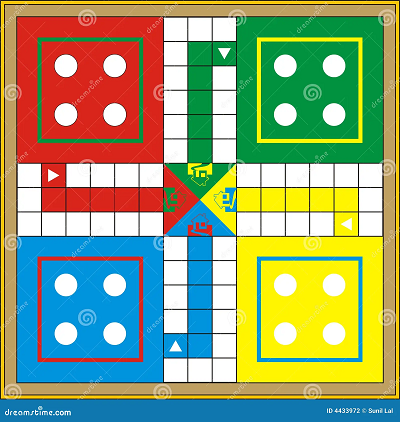
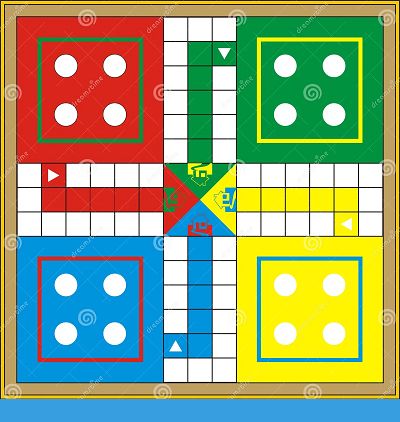
Interface Done

Changed region(s): [[0.0, 0.9242, 1.0, 1.0]]

diff --git a/main.py b/main.py
@@ -1,118 +1,112 @@
 """Ludo Game made with python
-
 """
+
+import sys
+import time
 import pygame
-import sys, time
 from diceRolling import roll_dice
 import const
 
-pygame.init()
+from app import Button
+
 pygame.font.init()
 
 W = const.WIDTH
 H = const.HEIGHT
- 
+
+P_W = const.PIECES_WIDTH
+P_H = const.PIECES_HEIGHT
+
 game_active = True
 
 screen = pygame.display.set_mode((W, H))
 pygame.display.set_caption("Ludo")
-startBg = pygame.transform.scale(pygame.image.load("img/start.jpg"), (W, H))
+startBg = pygame.transform.scale(pygame.image.load("./img/start.jpg"), (W, H))
 screen.blit(startBg, (0, 0))
 
 BG = pygame.transform.scale(pygame.image.load("./img/bg.png"), (W, H))
 
-text_font = pygame.font.SysFont(None, 30)
+text_font = pygame.font.SysFont("comicsans", 30)
 dice_font = pygame.font.SysFont(None, 50)
 
 class Game:
-    """
-    Game class
+    """Game class
     """
     def __init__(self, players):
         """Game initialisation
-        @param players: number of players
         """
-        self.player1 = players[0]
-        self.player2 = players[1]
+        self.p1 = players[0]
+        self.p2 = players[1]
         if len(players) == 4:
-            self.player3 = players[2]
-            self.player4 = players[3]
+            self.p3 = players[2]
+            self.p4 = players[3]
 
     def drawPlayersName(self):
         """Drawing Player's name
-
         """
-        player1_surf = text_font.render(f"{self.player1}", 1, "white")
+        player1_surf = text_font.render(f"{self.p1}", 1, "white")
         player1_rect = player1_surf.get_rect(center=(100, 10))
         screen.blit(player1_surf, player1_rect)
 
-        player2_surf = text_font.render(f"{self.player2}", 1, "white")
-        player2_rect = player2_surf.get_rect(center = (W - player2_surf.get_width() - 10, 10)) if len(players) == 4 else player2_surf.get_rect(center = (W - player2_surf.get_width() - 10, H - player2_surf.get_height()))
+        player2_surf = text_font.render(f"{self.p2}", 1, "white")
+        if len(players) == 4:
+            player2_rect = player2_surf.get_rect(center = (W - 100, 10)) 
+        else:
+            player2_rect = player2_surf.get_rect(center = (W - 100, H - player2_surf.get_height()))
         screen.blit(player2_surf, player2_rect)
 
         if len(players) == 4:
-            player3_surf = text_font.render(f"{self.player3}", 1, "white")
-            player3_rect = player3_surf.get_rect(center=(W - player3_surf.get_width() - 10, H - player3_surf.get_height()))
+            player3_surf = text_font.render(f"{self.p3}", 1, "white")
+            player3_rect = player3_surf.get_rect(center=(W - 100, H - player3_surf.get_height()))
             screen.blit(player3_surf, player3_rect)
 
-            player4_surf = text_font.render(f"{self.player4}", 1, "white")
+            player4_surf = text_font.render(f"{self.p4}", 1, "white")
             player4_rect = player4_surf.get_rect(center=(100, H - player4_surf.get_height()))
             screen.blit(player4_surf, player4_rect)
 
         pygame.display.update()
 
-    def drawDice(self, player, dice):
+    def DrawBackground(self):
         """Drawing function
-
         """
         screen.blit(BG, (0, 0))
-
-        dice_text = dice_font.render(f"{players[player]} : {dice}", 1, "white")
-        dice_surf = dice_text.get_rect(center=(W / 2, H - dice_text.get_height()))
-        screen.blit(dice_text, dice_surf)
         pygame.display.update()
 
     def run(self):
         """Main function
-
         """
         run = True
         clock = pygame.time.Clock()
-        player = 0
-
+        
         while run:
             clock.tick(const.FPS)
             if game_active:
                 for event in pygame.event.get():
-                    if event.type == pygame.KEYDOWN and event.key == pygame.K_SPACE:
+                    if event.type == pygame.MOUSEBUTTONDOWN and button1.top_rect.collidepoint(event.pos):
+                        self.DrawBackground()
                         dice = roll_dice()
-                        self.drawDice(player, dice)
-                        player += 1
-                        if player > len(players) - 1:
-                            player = 0
                         self.drawPlayersName()
-                        time.sleep(1/2)
-                    
-                    elif event.type == pygame.MOUSEBUTTONDOWN:
-                        print(event.pos)
+                        button1 = Button(screen, f"{dice}", 100, 40, (W/2.5, H - 50))
+                        button1.draw()
+                        # time.sleep(1/5)
 
                     elif event.type == pygame.QUIT:
                         pygame.quit()
                         sys.exit()
 
             else:
-                over = text_font.render("GAME OVER", 3, "black")
                 screen.fill("white")
-                over_rect = over.get_rect(center=(W / 2, H / 2))
-                screen.blit(over, over_rect)
+                pygame.time.delay(4000)
+                run = False
+                break
             pygame.display.update()
 
-if __name__ == "__main__":    
-    # player = ""
+if __name__ == "__main__":
     players = []
-
+    
     # while not (player.isdigit() and (int(player) == 2 or int(player) == 4)):
     #     player = input("Enter number of players (2 or 4) : ")
+
     player = 4
 
     for i in range(player):

diff --git a/pieces.py b/pieces.py
@@ -1,24 +1,20 @@
-"""This file handle the players pos and all
-
 """
-# import pygame
+    This module handle the player's position and the 
+"""
+import pygame
 import const
 
 class Pieces:
+    """Handling pieces
     """
-    Handling pieces
-    """
-    def __init__(self, players):
-        """for parameter I'll user the players, colors
-        """
-        self.p1 = players[0]
-        self.p2 = players[1]
-        if len(players) > 2:
-            self.p3 = players[2]
-            self.p4 = players[3]
-        self.p_colors = list(zip(range(len(players)), const.COLORS))
-
-    def Players(self):
-        """Maybe to handle the player's pieces/color
-        """
-        return self.p_colors
+    def __init__(self, players):      
+        self.player_colors = {
+            "Player 1": "red",
+            "Player 2": "green",
+            "Player 3": "yellow",
+            "Player 4": "blue",
+        }
+        
+        self.pieces = {
+            "Player 1": [pygame.R]
+        }

diff --git a/game.py b/game.py
@@ -1,5 +1,4 @@
 """Handling the game functionality
-
 """
 
 import pygame
@@ -9,4 +8,3 @@ from pieces import Pieces
 #This is for viewing the position of the mouse
 player = ["Finoana", "Charles"]
 pieces = Pieces(player)
-print(pieces.Colors())

diff --git a/diceRolling.py b/diceRolling.py
@@ -1,4 +1,9 @@
+"""This module deal the score
+"""
+
 import random
 
 def roll_dice():
+    """Return the rolled dice
+    """
     return random.randint(1, 6)

diff --git a/const.py b/const.py
@@ -7,6 +7,9 @@ HEIGHT = 600
 
 FPS = 30
 
+PIECES_WIDTH = 20
+PIECES_HEIGHT = 20
+
 COLORS = [
     "red",
     "green",
